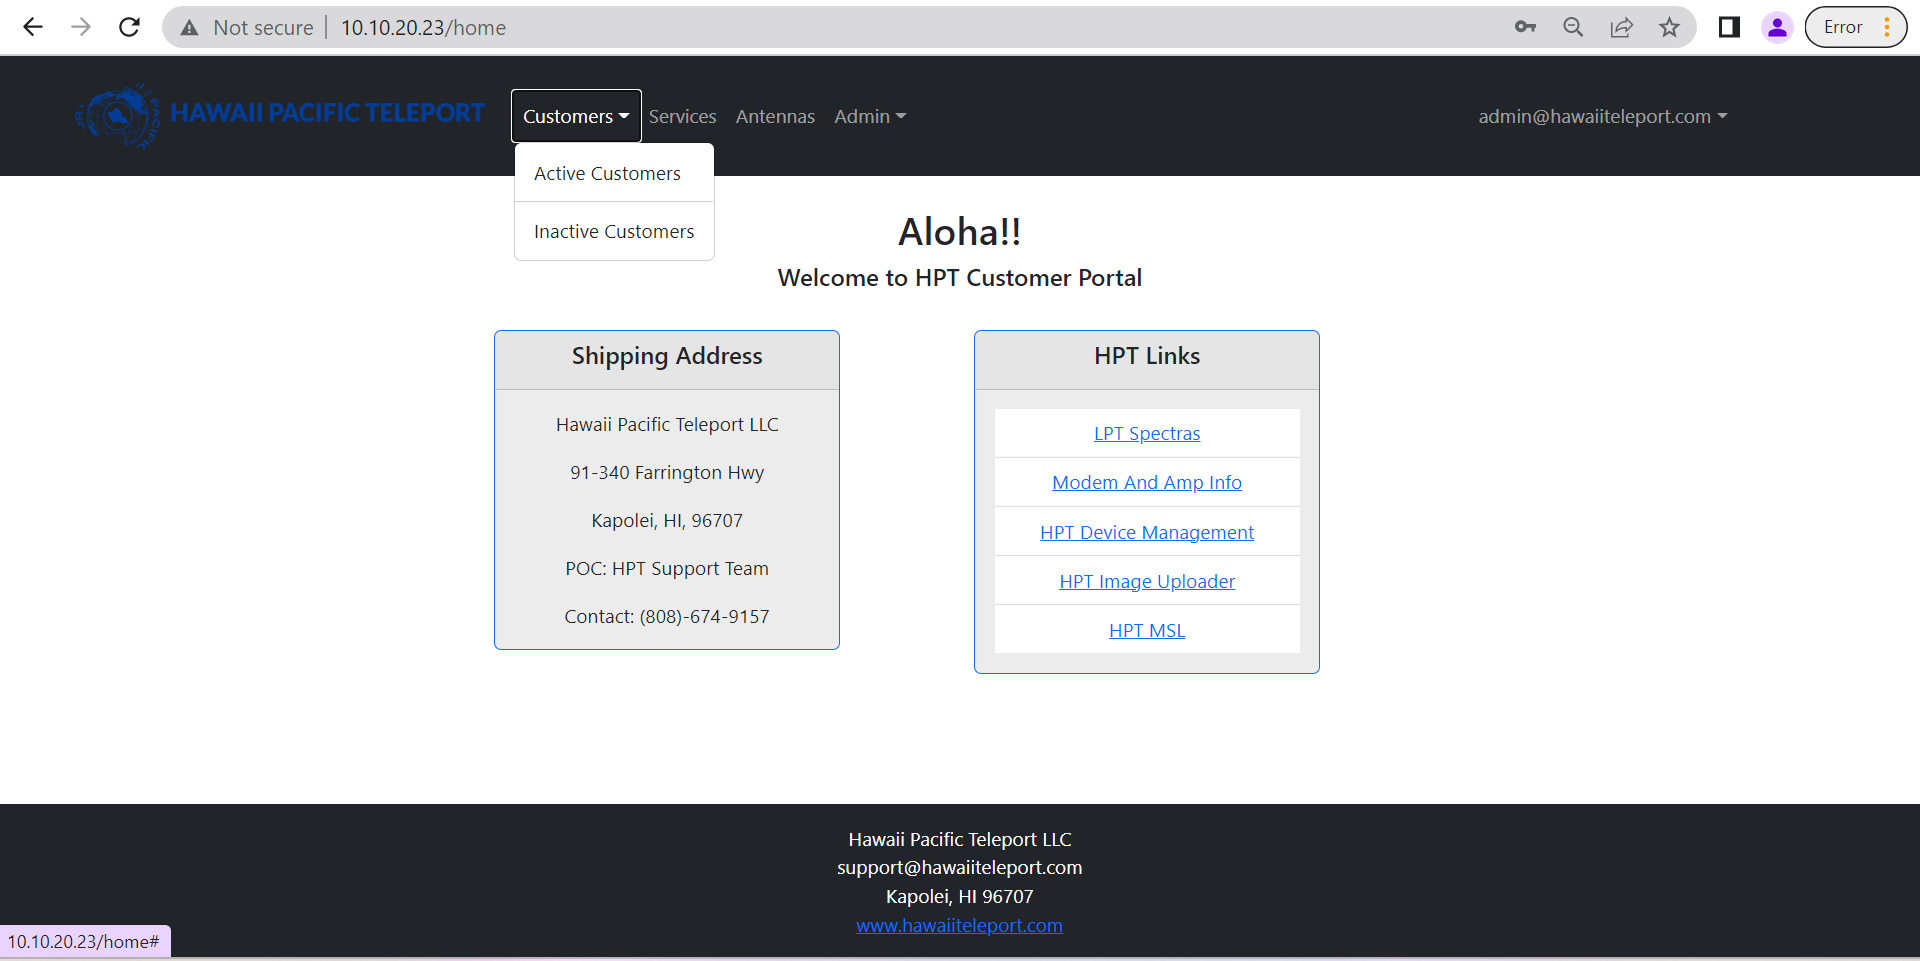
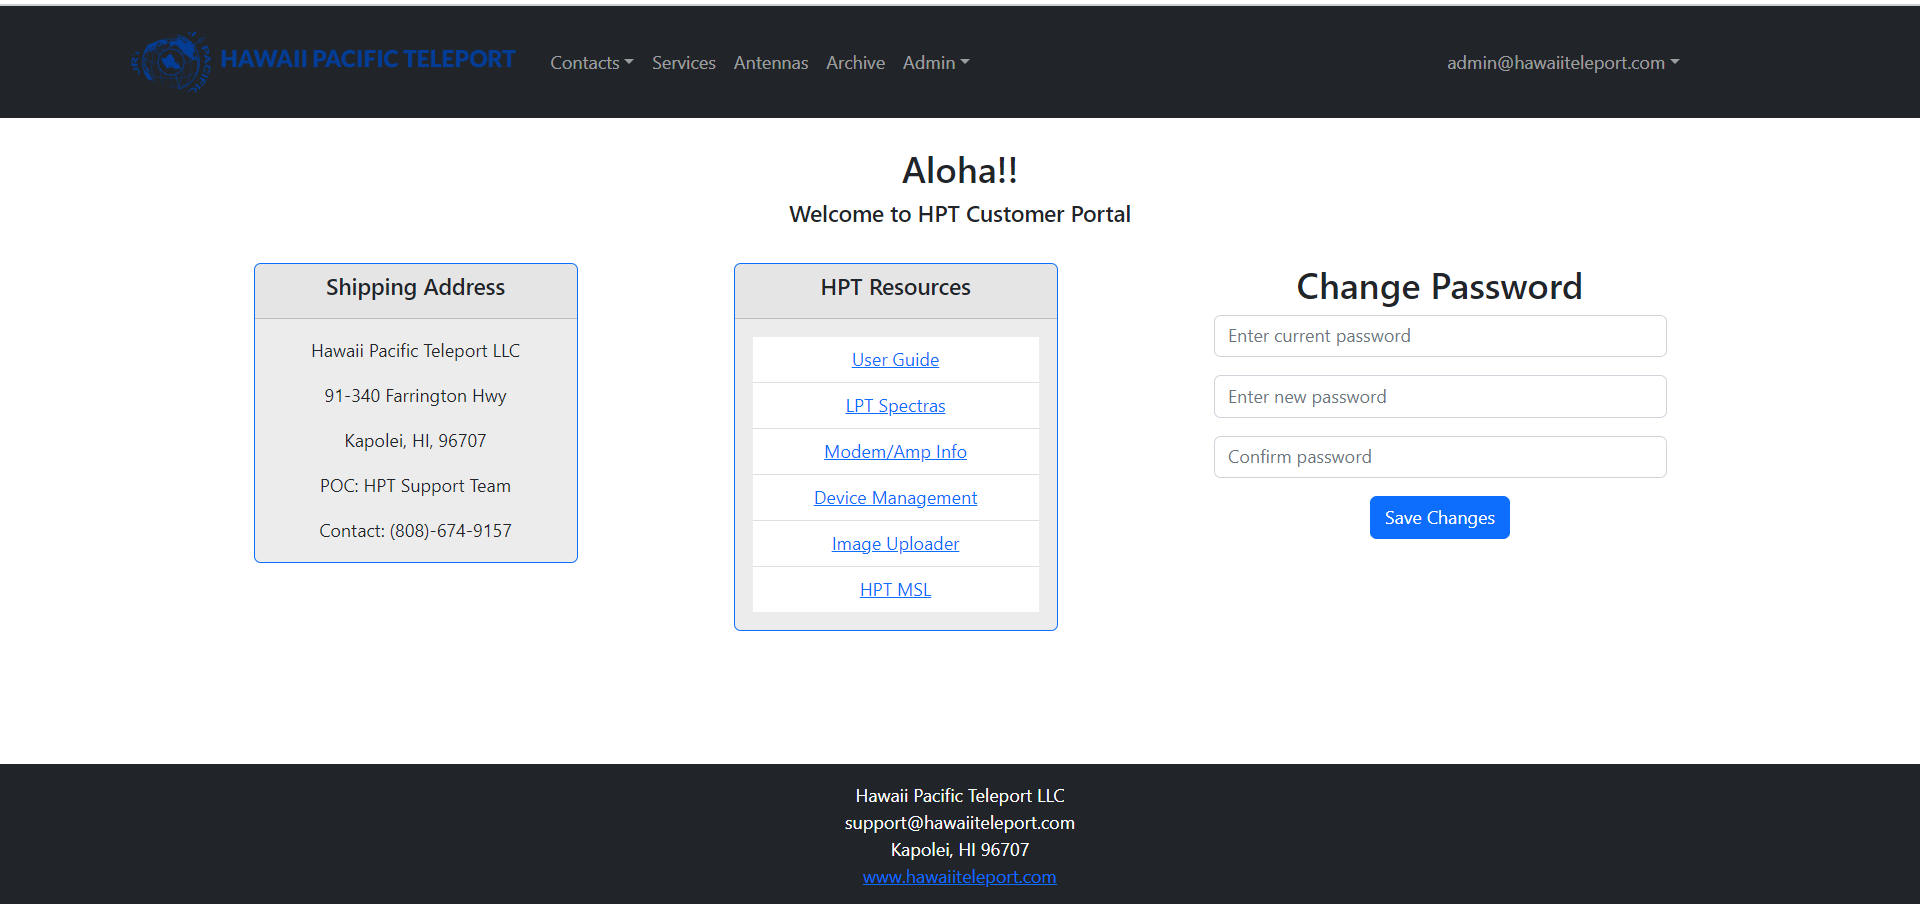
new changes

diff --git a/index.md b/index.md
@@ -1,8 +1,8 @@
 ## Overview
 
-**Note** that all of the examples and information displayed in this documentation are made up and do not use actual client information. The documentation guides the users about various aspects of this application. For any questions please contact the developer (Ujjwal)
+**Note** that all of the examples and information displayed in this documentation are made up and do not use actual client information. The documentation guides the users about various aspects of this application.
 
- <br>
+ <!-- <br>
  This application utilizes various technologies, including:
 
 - [Meteor](https://www.meteor.com/) for Javascript-based client and server code implementation.
@@ -14,7 +14,7 @@
 
 ## Deployment
 
-The application is deployed in the HPT organizations' server and can only be accessible within the local network.
+The application is deployed in the HPT organizations' server and can only be accessible within the local network. -->
 
 <br>
 
@@ -44,17 +44,33 @@ Upon logging in successfully, the home page is displayed. It contains frequently
 
 ### Customer Page
 
-The HomePage illustrates the customer dropdown icon in the navigation bar, which includes two options: Active and Inactive customers. Customers with active services hosted at HPT will be classified as Active customers. This page grants users the ability to modify, delete, and review customer information.
+To access the Contact information, navigate to the Contacts menu in the navigation bar. The dropdown menu for Contacts contains two options - Customers and Providers. Selecting either option will redirect you to the respective page, where you can view the details of all active customers or providers. It's important to note that Providers may include both satellite and internet service providers. The page grants users the ability to modify, delete, and review customer/provider information.
 
 ![screenshot of active customer](doc/activecustomer.png)
 <br>
 <br>
 
-To modify the customer information, select the "Edit" button. This will redirect you to the appropriate page. Utilize the form provided to make the necessary changes. Additionally, users can mark the customer as inactive on this page.
+To **modify** the customer information, select the "Edit" button. This will redirect you to the appropriate page. Utilize the form provided to make the necessary changes. Additionally, users can mark the customer as inactive on this page.
 
 ![Update Customer ScreenShot](doc/editcustomer.png)
 
+To **add** a new customer, click on the "Add Customer" button located at the bottom of the page or simply navigate to the Admin dropdown in the navigation bar and click on "Add Customer". Fill out the required information and submit the form to create a new customer record.
+
+![Add Customer ScreenShot](doc/addnewcustomer.png)
+
+**Note** that if you deselect the active checkbox in the edit customer or edit provider page, the customer or provider will be marked as inactive and will no longer be displayed on the customer or provider page. To access inactive customer or provider details, navigate to the "Archive" page.
+
 <br>
+
+**Note** that the Providers page closely resembles the Customers page and serves to store the contact information of various vendors including Satellite Controllers and Internet Service Providers.
+
+<br>
+
+Below is the screenshot of the "Provider" page
+
+<br>
+
+![Provider Page ScreenShot](doc/activeproviders.png)
 
 ### Services Page
 
@@ -67,6 +83,7 @@ To add a new service:
 Navigate to the "Services" page and select the "Add Services" button or access it from the "Admin" dropdown in the navigation bar.
 Complete the form with the required information, and upload any necessary files if desired.
 Once complete, submit the form to finalize the process.
+
 ![screenshot of the addservices Page](doc/addnewservice.png)
 
 **Individual Service**
@@ -74,15 +91,22 @@ Once complete, submit the form to finalize the process.
 By selecting the customer button on the left sidebar, the application will display the services associated with that specific customer
 <br>
 On this page, users have the ability to view and delete the service. Additionally, users have the option to add the service to Spectras, an external device that is utilized for monitoring services. The application interacts with the device through a REST API. Once added to the Spectras application, users can access the latest graph of the service. This feature allows for quick and efficient monitoring of the service status and aids in troubleshooting during issues and outages.
+
 ![screenshot of the individual services Page](doc/individualservice.png)
+
 <br>
 Click on the "Show Details" button to view the service's details.
+
 ![screenshot of the show details page](doc/servicedetails.png)
+
 <br>
 To add the TX/RX services to LPT Spectras, select the "Add to Spectras" button. After successfully adding the service to Spectras, the button label will change to "Remove From Spectras." If you wish to remove the service from Spectras, select the "Remove From Spectras" button.
+
+![Screenshot of add to spectras page](doc/successfuladdtospectras.png)
+
 <br>
 <br>
-Please **note** that the "Delete" button on the service page will delete the service and its associated files from the database and removes the service from Spectras.
+Please take note that the "Archive" button on the service page will deactivate the service and remove its snapshot from Spectras. Nevertheless, information on inactive services can still be viewed on the "Archives" page.
 
 <br>
 <br>
@@ -93,19 +117,33 @@ Click on "Display Plot" button to view the latest updated graph of the service.
 
 ### Antennas
 
-Select the "Antenna" button on the navigation bar to view, edit, and delete existing antennas.
+Select the "Antenna" button on the navigation bar to view, edit, and archive existing antennas.
+
 ![screenshot of the antenna page](doc/addantennas.png)
 
 To add a new antenna, navigate to the "Antenna" page and select the "Add Antenna" button or access it from the "Admin" dropdown in the navigation bar.
+
 ![screenshot of the antenna page](doc/addantenna-1.png)
 
 <br>
 <br>
 
+### Archive
+
+To access information on inactive entities such as Customers, Providers, Services, and Antennas, navigate to the "Archive" page via the navigation bar. Once on the page, simply select the desired entity and click on "Find" to display the related information
+
+![screenshot of the archive page customer](doc/archiveantenna.png)
+
+![screenshot of the archive page](doc/archiveservice.png)
+
+**_To reactivate an entity, simply click on the "Activate" button._**
+
 ### Admin
 
-The "Admin" dropdown button on the navigation bar provides access to the functionality for adding customers, services, and antennas. Additionally, it includes options for the administrator to manage user accounts and view a list of customers associated with a particular antenna.
+The "Admin" dropdown button on the navigation bar provides access to the functionality for adding customers, providers, services, and antennas. Additionally, it includes options for the administrator to manage user accounts and audit customers associated with a particular antenna.
+
 ![screenshot of the Admin page](doc/admindropdown.png)
+
 <br>
 The "Manage Account" page is accessible only to users with an "Admin" role and allows them to delete/register users. This page is not visible to users with different roles.
 
@@ -119,13 +157,20 @@ Users with non-admin role cannot manage accounts
 
 <br>
 
-The "Get Customers" page enables users to view a list of customers and the services associated with a particular antenna.
-![screenshot of the get customers page](doc/getserviceinfo.png)
+The "Audit Customer" page enables users to view a list of customers and the services associated with a particular antenna.
+
+![screenshot of the get customers page](doc/auditcustomer.png)
 
 <br>
 
+### SignOut
+
+To sign out, simply click on the username located at the top right of the navigation bar and select "Sign Out"
+
+![screenshot of signout page](doc/signout.png)
+
 ## Contact Me
 
-**HPT Clients Tracker** is designed, implemented, and maintained by [Ujjwal Gautam](mailto:ujjwalgautam00@gmail.com)
+**HPT Clients Tracker** is designed, implemented, and maintained by [Ujjwal Gautam](mailto:ugautam@hawaiiteleport.com)
 
 <br><br><br><br>
